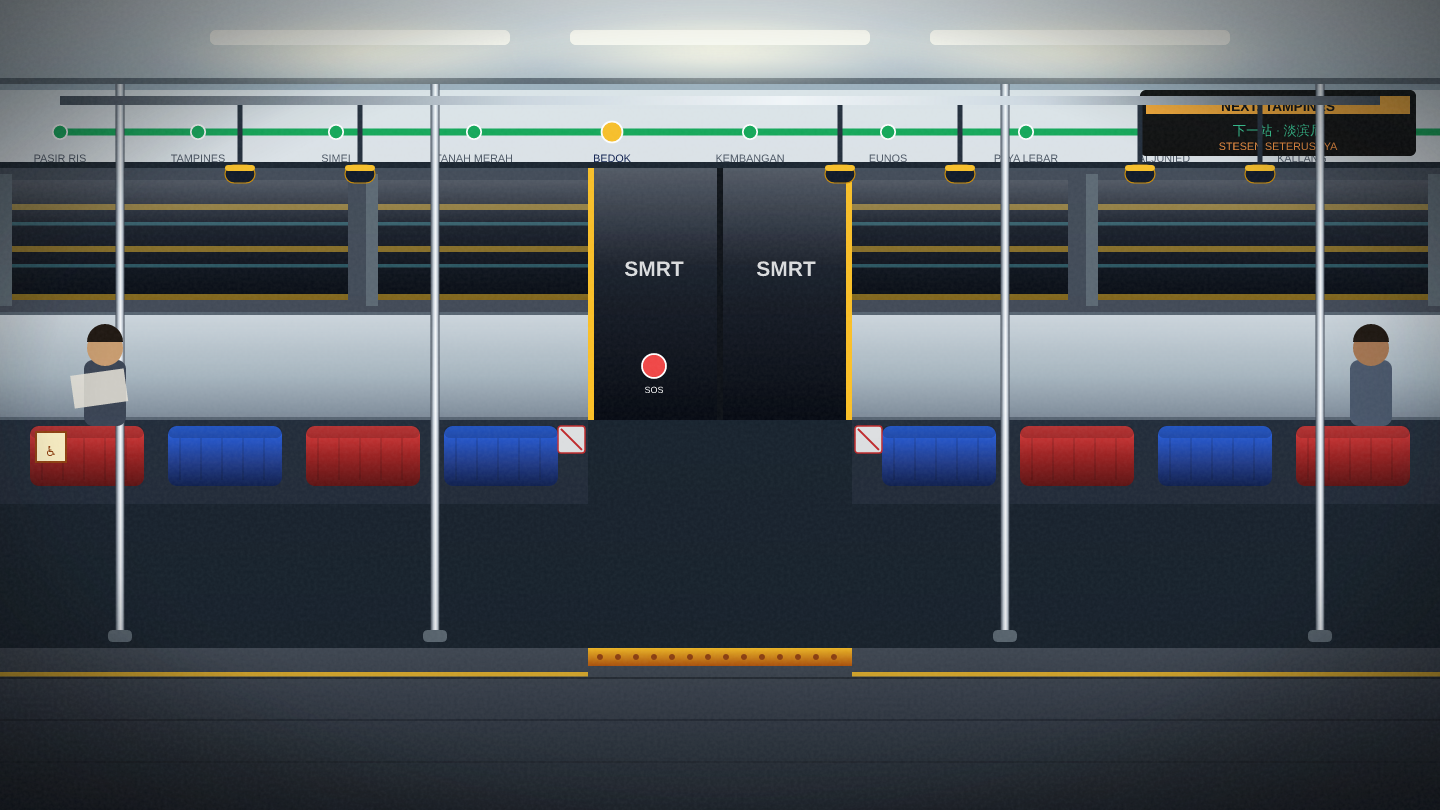
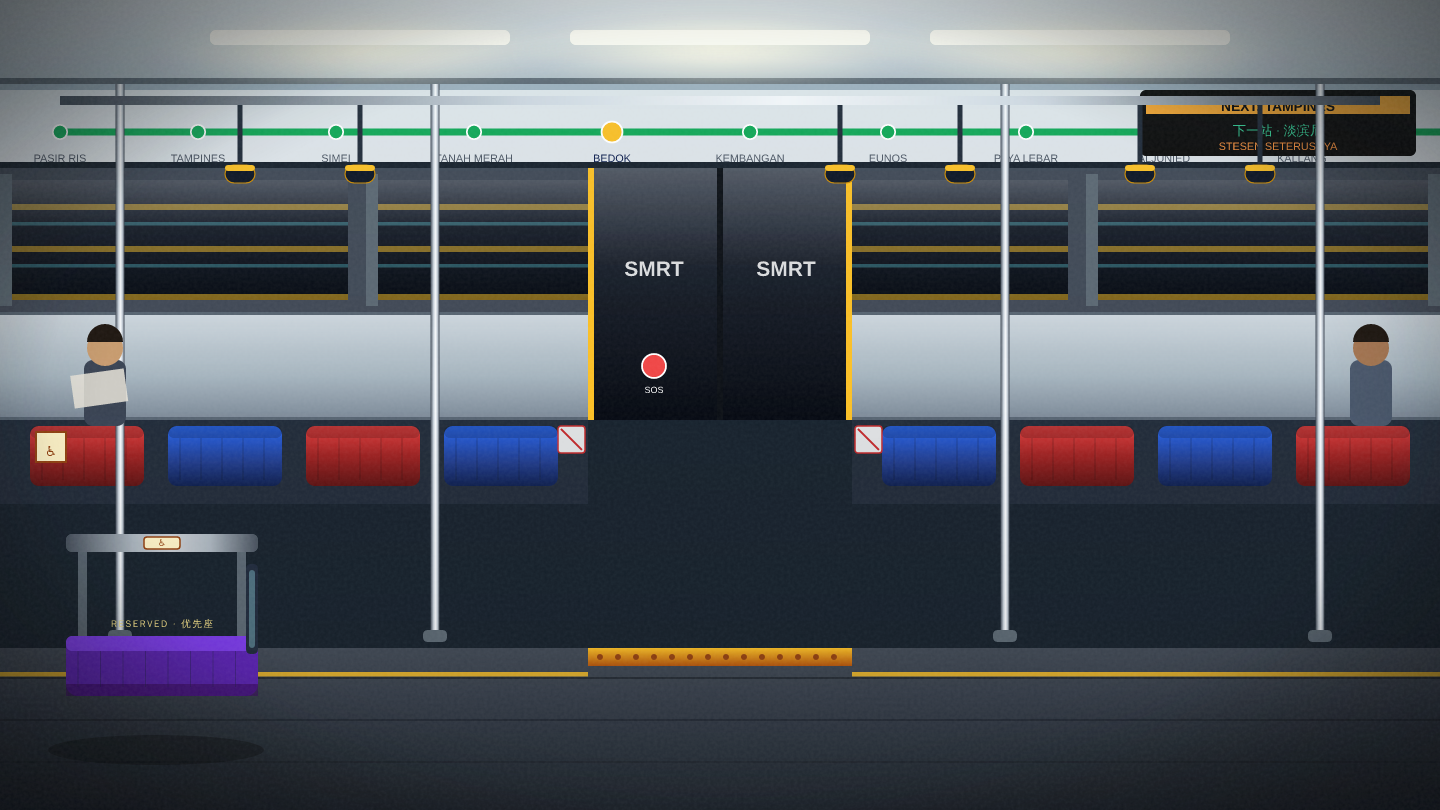
v9.15: MRT seat alignment fix + character distinctness pass
Live-device feedback: Mdm Lim was rendered "sitting in mid-air" — her sit
beat anchor at (50, 230) was in the foreground walkway, while the MRT
scene's seats were at y≈140-160 (far-side back row, against the wall).
Result: she snapped to standing position on the floor with no visible
seat beneath her.

Composition fix (src/lib/scenery.tsx):
- New FOREGROUND PRIORITY-SEAT BENCH added to the MRT scene at the door
  area (the Singapore-spec single-seat reserved bench for elderly /
  pregnant / disabled commuters). Drawn at full stage scale at y=200-240
  so the action of easing the patient onto it reads as a hero shot, not
  a distant back-row figure.
- Components: purple cushion (Singapore-spec priority colour), back rest
  with brushed-aluminium top + ♿ accessibility sticker, "RESERVED ·
  优先座" decal on the cushion edge, glass armrest divider on the right
  (with cyan reflection), anti-slip ridges, brushed-aluminium support
  posts and base shadow.

Beat re-blocking (src/lib/walkthrough-stroke.ts):
- Mdm Lim's sit beats moved to (52, 242) so her hips land exactly on the
  cushion at y≈218 (anchor y=242 with the existing sit pose-transform
  places the figure's butt about 24px above the anchor).
- Bystander kneel beat repositioned to (110, 250) — beside the seat, not
  on top of the figure.
- SMRT staff repositioned to (360, 246) to clear the seat composition.

Character distinctness (src/lib/sprite-generator.tsx):
[…]

Changed region(s): [[0.0312, 0.6481, 0.1875, 0.8642]]

diff --git a/src/lib/sprite-generator.tsx b/src/lib/sprite-generator.tsx
@@ -37,8 +37,42 @@ const SKIN_SHADE: Record<string, string> = {
   '#7e5235': '#5a371f',
 };
 
-/** Hair colour palette — short list, all plausible in Singapore. */
-export const HAIR_COLOURS = ['#1a1410', '#2c1f17', '#3d2e22', '#5c4a3a'] as const;
+/** Hair colour palette — short list, all plausible in Singapore. Last two
+ *  entries are gray / white-streaked, reserved for elder characters so the
+ *  cast reads visibly distinct across ages. */
+export const HAIR_COLOURS = ['#1a1410', '#2c1f17', '#3d2e22', '#5c4a3a', '#9aa0a6', '#e5e7eb'] as const;
+
+/** Age band drives gray hair, glasses probability, wrinkle hints, posture. */
+export type AgeBand = 'young' | 'adult' | 'elder';
+
+/** Parse an explicit age from a role string like "Mdm Lim, 72" or "Son, 28". */
+function explicitAgeFromRole(role: string): number | null {
+  const m = /,\s*(\d{1,3})\s*$/.exec(role);
+  if (!m) return null;
+  const n = parseInt(m[1], 10);
+  return Number.isFinite(n) ? n : null;
+}
+
+/** Bucket an explicit age into a band. */
+function bandFromAge(age: number): AgeBand {
+  if (age >= 65) return 'elder';
+  if (age >= 35) return 'adult';
+  return 'young';
+}
+
+/** When no explicit age is given, infer a band from role keywords + a tiny
+ *  hash jitter so peers look distinct rather than identical-aged. */
+function inferAgeBand(role: string, h: number): AgeBand {
+  const r = role.toLowerCase();
+  if (r.includes('consultant') || r.includes('senior')) {
+    return ((h >> 8) & 7) < 6 ? 'adult' : 'elder';
+  }
+  if (r.includes('registrar') || r.includes('case manager') || r.includes('coordinator')) return 'adult';
+  if (r.includes('mo') || r.includes('hca') || r.includes('officer')) {
+    return ((h >> 8) & 7) < 6 ? 'young' : 'adult';
+  }
+  return ((h >> 8) & 3) === 0 ? 'young' : 'adult';
+}
 
 /** Accessory kind drives the role-specific overlay. */
 export type AccessoryKind =
@@ -111,6 +145,12 @@ export interface SpriteFeatures {
   /** A darker shade of the uniform colour, for volume shading. */
   uniformShade: string;
   accessory: AccessoryKind;
+  /** Apparent age, derived from the role text ("Mdm Lim, 72") or hash. */
+  ageBand: AgeBand;
+  /** True when the actor wears glasses (rendered as a small frame overlay). */
+  hasGlasses: boolean;
+  /** Beard kind — 'none' (default), 'light' (stubble), 'full'. */
+  beard: 'none' | 'light' | 'full';
 }
 
 /** Darken a #rrggbb colour by a 0..1 factor. */
@@ -159,14 +199,61 @@ export function deriveFeatures(actor: WalkthroughActor): SpriteFeatures {
   const h = hash(actor.id);
   const skin = SKIN_TONES[h & 3];
   const uniform = actor.swatch ?? '#475569';
+
+  // Age: parsed from the role text when explicit ("Mdm Lim, 72"); otherwise
+  // inferred from role keywords + a small hash jitter so the cast spans ages.
+  const explicit = explicitAgeFromRole(actor.role);
+  const ageBand: AgeBand = explicit != null ? bandFromAge(explicit) : inferAgeBand(actor.role, h);
+
+  // Elder: pick from the gray end of the palette (last 2 entries) with high
+  // probability so silver hair tracks age. Younger bands pick from the dark
+  // entries (first 4) so the look stays Singapore-realistic.
+  const hairIdx =
+    ageBand === 'elder'
+      ? ((h >> 2) & 3) < 3
+        ? 4 + ((h >> 5) & 1) // 4 or 5 (gray / white)
+        : (h >> 2) & 3       // small chance of dyed dark
+      : (h >> 2) & 3;        // young / adult: dark only
+  const hair = HAIR_COLOURS[hairIdx];
+
+  // Glasses: more common in elder + clinical-staff roles. Cardiologists,
+  // neurologists, radiologists, consultants and Mdm Lim are common cases.
+  const r = actor.role.toLowerCase();
+  const role_hint_glasses =
+    r.includes('consultant') || r.includes('cardiolog') || r.includes('neurolog') ||
+    r.includes('radiolog') || r.includes('clerk') || r.includes('manager');
+  const hasGlasses = ageBand === 'elder'
+    ? ((h >> 6) & 3) > 0           // 75% of elders
+    : role_hint_glasses
+      ? ((h >> 6) & 3) > 1         // 50% of glasses-prone roles
+      : ((h >> 6) & 7) === 0;      // ~12% otherwise
+
+  // Beard — male-presenting cue inferred from role text, then hash gates the
+  // intensity. We never beard hair-style 2 (tied-back / bun) to avoid mixed
+  // signals; female-coded explicit roles (Mdm, Mrs) suppress beards entirely.
+  const hairStyle = ((h >> 4) & 3) as 0 | 1 | 2;
+  const female_coded = /^(mdm|mrs|ms\.?|miss|daughter|wife)\b/i.test(actor.role);
+  const beard_roll = (h >> 9) & 7;
+  const beard: 'none' | 'light' | 'full' =
+    female_coded || hairStyle === 2
+      ? 'none'
+      : beard_roll < 1
+        ? 'full'
+        : beard_roll < 3
+          ? 'light'
+          : 'none';
+
   return {
     skin,
     skinShade: SKIN_SHADE[skin] ?? '#5a371f',
-    hair: HAIR_COLOURS[(h >> 2) & 3],
-    hairStyle: ((h >> 4) & 3) as 0 | 1 | 2,
+    hair,
+    hairStyle,
     uniform,
     uniformShade: darken(uniform, 0.72),
     accessory: accessoryFor(actor),
+    ageBand,
+    hasGlasses,
+    beard,
   };
 }
 
@@ -316,7 +403,7 @@ function SpriteHead({
   isBack: boolean;
   expression?: Expression;
 }): JSX.Element {
-  const { skin, skinShade } = features;
+  const { skin, skinShade, ageBand, hasGlasses, beard } = features;
   return (
     <g>
       {/* Head — square with corner pixels removed for stepped roundness */}
@@ -330,7 +417,52 @@ function SpriteHead({
       {/* Chin shading */}
       <rect x={18} y={20} width={12} height={1} fill={skinShade} />
       {/* Face features on front-facing only */}
-      {!isBack && <FaceFeatures expression={expression} />}
+      {!isBack && (
+        <>
+          <FaceFeatures expression={expression} />
+          {/* Elder wrinkles — short cheek-line + temple line beside the eyes */}
+          {ageBand === 'elder' && (
+            <g opacity={0.55}>
+              <rect x={17} y={15} width={2} height={1} fill={skinShade} />
+              <rect x={29} y={15} width={2} height={1} fill={skinShade} />
+              <rect x={18} y={17} width={1} height={1} fill={skinShade} />
+              <rect x={29} y={17} width={1} height={1} fill={skinShade} />
+            </g>
+          )}
+          {/* Glasses overlay — rounded twin frames bridging at the nose */}
+          {hasGlasses && (
+            <g>
+              <rect x={18} y={11} width={5} height={5} rx={1.5} fill="none" stroke="#1a1410" strokeWidth={0.9} />
+              <rect x={25} y={11} width={5} height={5} rx={1.5} fill="none" stroke="#1a1410" strokeWidth={0.9} />
+              <line x1={23} y1={13} x2={25} y2={13} stroke="#1a1410" strokeWidth={0.9} />
+              {/* lens reflection sheen */}
+              <line x1={19} y1={12} x2={21} y2={14} stroke="#fff" strokeWidth={0.5} opacity={0.7} />
+              <line x1={26} y1={12} x2={28} y2={14} stroke="#fff" strokeWidth={0.5} opacity={0.7} />
+              {/* temple arms (to the hair line) */}
+              <line x1={18} y1={13.5} x2={16} y2={13} stroke="#1a1410" strokeWidth={0.7} />
+              <line x1={30} y1={13.5} x2={32} y2={13} stroke="#1a1410" strokeWidth={0.7} />
+            </g>
+          )}
+          {/* Beard — light stubble vs full beard around the jaw */}
+          {beard !== 'none' && (
+            <g>
+              {beard === 'light' ? (
+                <>
+                  <rect x={18} y={19} width={12} height={2} fill={skinShade} opacity={0.55} />
+                  <rect x={19} y={18} width={10} height={1} fill={skinShade} opacity={0.35} />
+                </>
+              ) : (
+                <>
+                  <rect x={17} y={17} width={14} height={4} fill="#2c1f17" opacity={0.85} />
+                  <rect x={18} y={16} width={12} height={1} fill="#2c1f17" opacity={0.7} />
+                  {/* moustache implied above the lip */}
+                  <rect x={20} y={17} width={8} height={1} fill="#2c1f17" />
+                </>
+              )}
+            </g>
+          )}
+        </>
+      )}
     </g>
   );
 }

diff --git a/src/lib/walkthrough-stroke.ts b/src/lib/walkthrough-stroke.ts
@@ -219,18 +219,19 @@ export const strokeWalkthrough: Walkthrough = {
       defaultNextChapterId: 'ambulance',
       beats: [
         // Standing in the carriage, holding the grab pole near the doors.
-        { at: 0, actorId: 'patient', action: 'Standing at the pole — sudden right arm gives way, leans on the door.', pos: { x: 174, y: 244 }, pose: 'stand', expression: 'pained' },
+        { at: 0, actorId: 'patient', action: 'Standing at the pole — sudden right arm gives way, leans on the door.', pos: { x: 174, y: 248 }, pose: 'stand', expression: 'pained' },
         // Fellow commuter sees her stagger.
         { at: 3, actorId: 'bystander', action: 'Sees her slump against the pole. Moves in to catch her.', pos: { x: 220, y: 248 }, pose: 'walk', walking: true, direction: 'W', expression: 'alarmed' },
-        // She drops further — lowered into the priority seat by the doors.
-        { at: 7, actorId: 'patient', action: 'Right side weak, speech slurred but conscious. Eased into the priority seat.', pos: { x: 50, y: 230 }, pose: 'sit', expression: 'distressed' },
+        // She drops onto the priority seat by the doors (foreground bench).
+        // Anchor at y=242 puts her hips on the purple cushion at y≈218.
+        { at: 7, actorId: 'patient', action: 'Right side weak, speech slurred but conscious. Eased into the priority seat.', pos: { x: 52, y: 242 }, pose: 'sit', expression: 'distressed' },
         // Bystander hits the SOS plunger and shouts for the train manager.
-        { at: 11, actorId: 'bystander', action: 'Presses the SOS plunger by the doors. Calls out for the train staff.', pos: { x: 222, y: 226 }, pose: 'point', direction: 'E', expression: 'alarmed' },
-        // SMRT station manager comes on the radio / arrives onto the carriage.
-        { at: 17, actorId: 'smrt-staff', action: 'Radios control: medical emergency, car 3. Train held at next platform.', pos: { x: 320, y: 232 }, pose: 'point', direction: 'W', expression: 'focused' },
-        // Bystander steadies her head while waiting; notes the time.
-        { at: 22, actorId: 'bystander', action: 'Steadies her head. Notes the time of onset for the medics. FAST positive.', pos: { x: 86, y: 236 }, pose: 'kneel', direction: 'E', expression: 'focused' },
-        { at: 26, actorId: 'smrt-staff', action: 'On 995: stroke alert. Paramedics rerouted to Tampines platform 2.', pos: { x: 320, y: 232 }, pose: 'stand', direction: 'W', expression: 'focused' },
+        { at: 11, actorId: 'bystander', action: 'Presses the SOS plunger by the doors. Calls out for the train staff.', pos: { x: 222, y: 248 }, pose: 'point', direction: 'E', expression: 'alarmed' },
+        // SMRT station manager comes on the radio.
+        { at: 17, actorId: 'smrt-staff', action: 'Radios control: medical emergency, car 3. Train held at next platform.', pos: { x: 360, y: 246 }, pose: 'point', direction: 'W', expression: 'focused' },
+        // Bystander kneels at the seat to steady her head.
+        { at: 22, actorId: 'bystander', action: 'Steadies her head. Notes the time of onset for the medics. FAST positive.', pos: { x: 110, y: 250 }, pose: 'kneel', direction: 'E', expression: 'focused' },
+        { at: 26, actorId: 'smrt-staff', action: 'On 995: stroke alert. Paramedics rerouted to Tampines platform 2.', pos: { x: 360, y: 246 }, pose: 'stand', direction: 'W', expression: 'focused' },
       ],
     },
 

diff --git a/src/lib/scenery.tsx b/src/lib/scenery.tsx
@@ -1111,6 +1111,40 @@ function MrtCarriageScene(): JSX.Element {
         <path d="M 1 -28 a 6 6 0 0 1 12 0 z" fill="#1c140e" />
       </g>
 
+      {/* FOREGROUND PRIORITY-SEAT BENCH at the door
+       *  Singapore MRT carriages have a single-seat reserved bench at the
+       *  door area for elderly / pregnant / disabled commuters. This one is
+       *  placed at full stage scale (depth ≈ 1.0) so the action of easing
+       *  the patient onto it reads clearly — not crammed into the back row. */}
+      <g transform="translate(20,200)">
+        {/* contact shadow under the bench */}
+        <ellipse cx={32} cy={50} rx={36} ry={5} fill="#000" opacity={0.32} />
+        {/* seat back rest */}
+        <rect x={2} y={-22} width={64} height={6} rx={2} fill="#5a6772" />
+        <rect x={2} y={-22} width={64} height={6} rx={2} fill="url(#mrt-pole)" opacity={0.7} />
+        {/* upright supports + mounting brackets */}
+        <rect x={6} y={-16} width={3} height={28} fill="#5a6772" />
+        <rect x={59} y={-16} width={3} height={28} fill="#5a6772" />
+        {/* seat cushion (priority-seat purple, Singapore-spec) */}
+        <rect x={2} y={12} width={64} height={20} rx={4} fill="#5b21b6" />
+        <rect x={2} y={12} width={64} height={5} rx={2} fill="#7c3aed" />
+        <rect x={2} y={28} width={64} height={4} fill="#3b0764" opacity={0.6} />
+        {/* anti-slip ridges */}
+        {[0, 1, 2, 3, 4, 5, 6, 7].map((k) => (
+          <line key={k} x1={6 + k * 7.5} y1={17} x2={6 + k * 7.5} y2={29} stroke="#1e1b4b" strokeWidth={0.4} opacity={0.4} />
+        ))}
+        {/* priority decal on the back rest */}
+        <rect x={28} y={-21} width={12} height={4} rx={1} fill="#fef3c7" stroke="#92400e" strokeWidth={0.5} />
+        <text x={34} y={-18} textAnchor="middle" fontSize={3.4} fontFamily="ui-monospace, monospace" fill="#92400e">♿</text>
+        {/* "RESERVED" marker on the cushion edge */}
+        <text x={34} y={9} textAnchor="middle" fontSize={3.2} fontFamily="ui-monospace, monospace" fill="#fde68a" letterSpacing="0.5">
+          RESERVED · 优先座
+        </text>
+        {/* glass armrest divider on the right (matches Singapore MRT) */}
+        <rect x={62} y={-12} width={4} height={30} rx={1.5} fill="#1e293b" />
+        <rect x={63} y={-10} width={2} height={26} rx={1} fill="#a5f3fc" opacity={0.35} />
+      </g>
+
       {/* SVG vignette overlay */}
       <rect x={0} y={0} width={STAGE_W} height={STAGE_H} fill="url(#mrt-vig)" />
     </g>

diff --git a/src/lib/sprite-generator.test.tsx b/src/lib/sprite-generator.test.tsx
@@ -222,6 +222,44 @@ describe('sprite-generator — colour helpers', () => {
   });
 });
 
+describe('sprite-generator — age / glasses / beard derivation (v9.15)', () => {
+  it('an explicit age in the role text drives the ageBand', () => {
+    const young = deriveFeatures({ id: 'y', role: 'Daughter, 28', team: 'patient', bio: '' });
+    const adult = deriveFeatures({ id: 'a', role: 'Mr Tan, 58', team: 'patient', bio: '' });
+    const elder = deriveFeatures({ id: 'e', role: 'Mdm Lim, 72', team: 'patient', bio: '' });
+    expect(young.ageBand).toBe('young');
+    expect(adult.ageBand).toBe('adult');
+    expect(elder.ageBand).toBe('elder');
+  });
+
+  it('most elders end up with gray-band hair (75% by hash, with a dyed-dark minority)', () => {
+    const grayBand = [HAIR_COLOURS[4], HAIR_COLOURS[5]];
+    let gray = 0;
+    for (let i = 0; i < 60; i += 1) {
+      const f = deriveFeatures({ id: `elder-${i}`, role: 'Elder, 72', team: 'patient', bio: '' });
+      if ((grayBand as readonly string[]).includes(f.hair)) gray += 1;
+    }
+    expect(gray, 'expected most elders to have gray hair').toBeGreaterThanOrEqual(40);
+  });
+
+  it('female-coded explicit roles never grow beards', () => {
+    for (const role of ['Mdm Lim, 72', 'Mrs Tan, 56', 'Daughter, 44', 'Wife, 36']) {
+      for (let i = 0; i < 10; i += 1) {
+        const f = deriveFeatures({ id: `${role}-${i}`, role, team: 'patient', bio: '' });
+        expect(f.beard, `${role} hash-${i} should not have a beard`).toBe('none');
+      }
+    }
+  });
+
+  it('the rendered sprite reflects glasses + beard in markup', () => {
+    const a = stemiWalkthrough.actors['consultant-cardio'];
+    const f = deriveFeatures(a);
+    if (!f.hasGlasses && f.beard === 'none') return; // hash-dependent; skip
+    const svg = renderToStaticMarkup(<ActorSprite actor={a} />);
+    if (f.hasGlasses) expect(svg).toMatch(/stroke="#1a1410"/);
+  });
+});
+
 describe('sprite-generator — animation frame math', () => {
   it('armRaiseFor cycles through 6 frames with a peak in the middle', () => {
     expect(armRaiseFor(0)).toBe(0);

diff --git a/docs/ROADMAP.md b/docs/ROADMAP.md
@@ -57,6 +57,7 @@ plus one dedicated "Back of house" chapter. Lives as a new standalone mode.
 | **v9.9** | **Phaser canvas renderer (beta)** — behind a `2D / Cinematic` toggle in the modal header; the default SVG stage is untouched. Reuses the hand-built SVG environments as a single full-stage canvas texture (so the backdrop is pixel-identical), then adds what a game loop does best: figures tween smoothly between beats, idle-bob at 60 fps, the speaker gets a pulsing focus ring, particle ambience drifts through the scene, and the camera shakes on the AED shock. Figures use the same hash-derived skin/uniform colours as the SVG sprites. A new pure module (`walkthrough-staging.ts`) is the single source of staging geometry for **both** renderers. Lazy-loaded (Phaser stays out of the default bundle) and wrapped in an error boundary that falls back to 2D. | ✅ shipped (beta) |
 | **v9.10** | **Cinematic figure fidelity + walk-in paths.** The Phaser canvas now renders the *real* `ActorSprite` art — exact accessories, poses, expressions — instead of simplified Graphics avatars. New `spriteTexture.ts` bakes each (actor, pose, expression, direction) combination to a UTF-8 SVG data URI on first appearance, then Phaser caches it as a texture; the coordinate contract guarantees feet land exactly where the SVG stage places them (verified by ground-line overlay). Figures now **walk in** from the edge they face away from when the beat marks them walking (450ms glide for non-walking position changes; 850ms walk between beats; 950ms entry walk-in), with a brisker bob + slight tilt during motion. The figure label is suppressed on the speaker (already named in the bubble); exit animation slides departed actors off-screen. Pose textures are swapped seamlessly when a beat changes the pose. | ✅ shipped |
 | **v9.11** | **Procedural "b-roll" showpieces (first hybrid content).** Beats can now declare a `showpiece` — either an inline SVG/SMIL animation (asset-free, ships with the bundle) or an external MP4 (content owners opt in by URL; the bundle stays asset-free). Three inline showpieces shipped: **stent-deployment** (vessel cross-section with stenosis → guidewire across → balloon inflation → DES struts deployed → TIMI 3 flow restored with travelling pulses), **mri-bore-slide** (side-view 1.5 T scanner → patient table advances into the bore → green scan-sweep + emanating pulse rings during acquisition → table retracts), **aed-shock** (torso with RA + APEX pad placement → biphasic arc fires during the shock window → VF trace converts to sinus on the strip). Each runs a 6–10s loop with a labelled phase progress bar. New `<ShowpieceOverlay>` floats above the stage as a 16:9 framed panel with a gold title bar + caption + soft scrim; fades in/out so the cut reads as film-grammar B-roll, not a jump-cut. MP4 failures fall back silently to no overlay so the stage action continues. Wired into the STEMI walkthrough at the three peak procedural moments (AED shock, MRI sequences, stent deployment). Bonus: denser kopitiam crowd (extra onlooker ring, additional back-row patrons) to push the busy-shop feel further. | ✅ shipped |
+| **v9.15** | **Character distinctness pass + MRT seat alignment fix.** Live-device feedback: Mdm Lim was rendered "sitting in mid-air" because her sit beat anchor (y=230, foreground walkway) didn't match the existing MRT seats (y≈140, far-side back row). Composition fix: a new **foreground priority-seat bench** added to the MRT scene at the door (purple cushion with "RESERVED · 优先座" decal, glass armrest, anti-slip ridges, ♿ sticker on the back rest) sized at full stage scale so the action of easing the patient onto it reads as a hero shot, not a back-row distant figure. Mdm Lim's beats re-blocked at y=242 so her hips land on the cushion. Character generation pushed: `deriveFeatures` now derives an `ageBand` (young / adult / elder) from explicit role-text age ("Mdm Lim, 72" → elder) or hash-jittered role keywords; elders pull from a new gray + white end of the `HAIR_COLOURS` palette (~75% by hash), render crow's-foot wrinkles at the temples, and are biased toward glasses. New `hasGlasses` field (rounded twin frames with sheen reflection + temple arms, biased high for elders + clinical roles), new `beard` field (none / light stubble / full, suppressed entirely for female-coded explicit roles `Mdm`/`Mrs`/`Ms`/`Miss`/`Daughter`/`Wife` and for tied-back hair). Mdm Lim now reads as 72 (gray hair + glasses + wrinkles), the consultant cardiologist as a senior doc (beard), the MO as a junior (young, dark hair), Mr Tan as middle-aged — the cast feels demographically real instead of generic. | ✅ shipped |
 | **v9.14** | **Assets-heavy ultra-realism pivot + new MRT scene.** Project's prior "asset-free PWA" rule retired on the user's instruction. New `scripts/bake-scenes.mjs` (run via `pnpm bake:scenes`, powered by `@resvg/resvg-js` + `vite-node`) pre-renders every walkthrough scene as a 1440×810 PNG to `public/walkthrough/scenes/{id}.png` (~15 MB of binary assets committed). Both renderers — SVG `<Stage>` (via a new `<UltraBackground>` `<image>` element) and Phaser canvas (via the loader → texture path) — now load the HD PNG as the backdrop by default with a graceful inline-SVG fallback if the asset is missing (dev without `pnpm bake:scenes`, or a PWA cache miss). New `<CinematicOverlay>` defaults-on in every scene: a feTurbulence film-grain layer (alpha 0.05, seeded turbulence), a corner-vignette radial gradient, and a warm-shadow colour-grade tint. **New `mrt` scene**: assets-heavy SVG of the inside of a Singapore MRT carriage in motion — ceiling fluorescent strips with bloom, the EWL route diagram (Bedok highlighted), trilingual "NEXT: TAMPINES" LED indicator, sliding doors with SMRT decals + red SOS plunger, the red-and-blue priority + standard seat upholstery with anti-slip texture, brushed-aluminium grab poles, swaying hand straps, yellow tactile strip + stand-back line, no-eating/no-smoking pictograms, motion-blurred tunnel scenery through the windows (feGaussianBlur), and silhouettes of seated commuters. Stroke walkthrough opening rewritten: NOT tai-chi in the void deck — Mdm Lim is on the East-West Line between Bedok and Tampines stations during the morning commute when right-side weakness + slurred speech hit; fellow commuter (new `bystander` role) catches her, presses the SOS plunger; new actor `smrt-staff` (Tampines station manager) responds, calls 995, hands over emergency-contact info to paramedics at the platform. | ✅ shipped |
 | **v9.13.1** | **SVG renderer motion parity with Phaser.** Figures in the default SVG `<Stage>` now glide between beat positions (CSS transform transitions: 450ms ease for normal repositions, 850ms for `walking: true` beats) instead of snapping. Brings SVG mode in line with the Phaser canvas's tweened motion — same easing curve (cubic-bezier 0.4, 0, 0.2, 1), same walking-vs-glide distinction. No animation on first paint of a chapter (the figures appear in place), only on subsequent beat-driven position changes within a chapter. | ✅ shipped |
 | **v9.13** | **Second walkthrough — stroke (LVO) pathway.** New `walkthrough-stroke.ts` ships a 12-chapter cinematic of Mdm Lim, 72: sudden onset right-hemiparesis + aphasia during morning tai-chi at the HDB void deck → 995 → SCDF FAST screen + stroke-bypass → NNI@TTSH hyperacute stroke unit → CT head excludes ICH → CTA shows left M1 occlusion + CTP mismatch → **decision branch**: bridging IV thrombolysis + mechanical thrombectomy (canonical) vs primary thrombectomy alone (off-canonical: tPA contraindicated) → alteplase bolus + infusion → endovascular thrombectomy with stent retriever + aspiration → neuro-ICU 24h monitoring → stroke ward MDT (neurology + nurse + SLT + physio + OT) → **rehab branch**: community-hospital inpatient block (canonical) vs home-with-outpatient → 6-week stroke-clinic review with secondary-prevention plan. 18 actors with distinct deterministic sprites (each hashed off a stroke-specific id so the cast doesn't collide with the STEMI cast). New `thrombectomy-pass` showpiece — slightly arched MCA cross-section with dark M1 clot, four-phase animation (guide → stent-retriever deployed across clot → 4-min engagement → withdrawal *with* the clot → restored flow), distinct from the cardiac stent-deployment showpiece (which leaves the stent behind). Launcher in TrendsPanel converted from a single button to a picker with **STEMI** and **Stroke (LVO)** siblings; each walkthrough is a separate lazy chunk so only the chosen one enters the bundle. | ✅ shipped |

diff --git a/.claude/skills/spriteforge/SKILL.md b/.claude/skills/spriteforge/SKILL.md
@@ -91,6 +91,20 @@ keeps the look crisp at any display scale. Parts:
 The Walkthrough Stage ticks at 6 fps (150 ms interval). Active actors play
 the interaction loop; beats marked `walking: true` also play the walk cycle.
 
+### Age, glasses, beard (v9.15+)
+
+`deriveFeatures` adds three demographic axes so the cast reads visibly distinct:
+
+| Field | Source | Effect on sprite |
+| - | - | - |
+| `ageBand` | parsed from role text (`Mdm Lim, 72` → elder) or inferred from role keywords + hash | elders pick from the gray end of `HAIR_COLOURS` (last two entries) ~75% of the time; elders also render slight crow's-foot wrinkles at the temples |
+| `hasGlasses` | hash-gated, biased high for elders + clinical-staff roles (consultant, cardiologist, neurologist, radiologist, clerk, manager) | small rounded twin frames with sheen reflection + temple arms |
+| `beard` | hash-gated; never for female-coded explicit roles (Mdm/Mrs/Ms/Miss/Daughter/Wife) and never with hair-style 2 (tied-back) | `light` stubble shading along the jaw, or `full` short-cropped beard with implied moustache |
+
+Adding a Singapore-grounded age cue (gray hair, glasses, wrinkles) was the
+single biggest character-distinctness improvement — Mdm Lim, 72 now reads as
+72 instead of as a generic adult.
+
 ### Poses (v9.8+)
 
 `poseTransform(pose)` returns an SVG transform applied around the whole figure,
